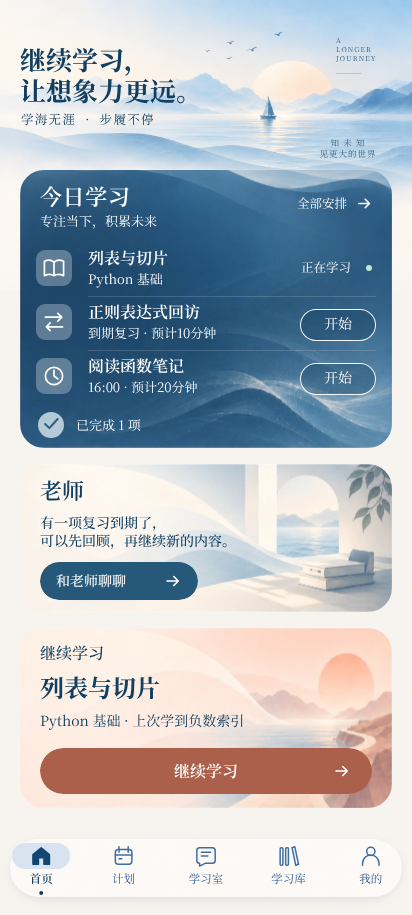
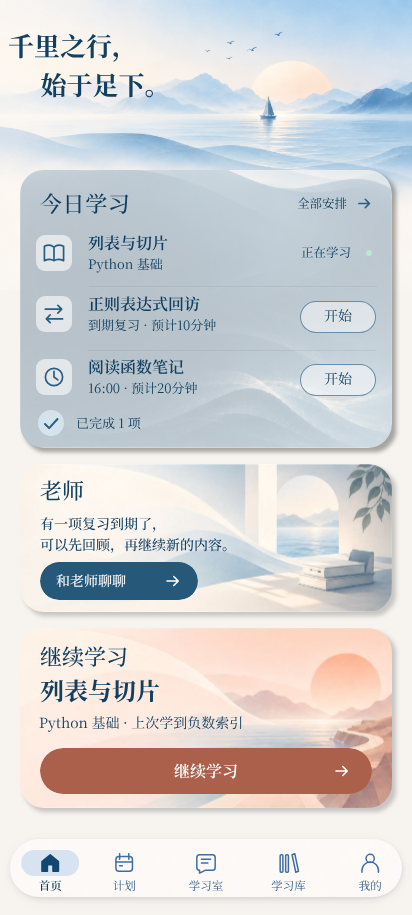
design: record card motion and refine homepage image balance

diff --git a/docs/superpowers/specs/2026-10-10-nautilus-card-focus-motion.md b/docs/superpowers/specs/2026-10-10-nautilus-card-focus-motion.md
@@ -1,0 +1,49 @@
+# 卡片聚焦转场：复用参考
+
+2026-10-10：作者认可修订后的效果，确认保留记录，供后续合适场景参考。当前交付是设计原型，未接入业务应用，也未批准其他页面自动使用。
+
+## 参考产物
+
+- [可重播原型](../prototypes/home-material3/continue-learning-motion.html)
+- [认可的0.8秒GIF](../prototypes/home-material3/continue-learning-800ms-overlap.gif)
+
+原型/GIF保存认可时的画面与时间曲线；后续Penpot静态稿和背景素材可能更新，不把旧演示中的文字、配图和占位学习室当成新页面规范。
+
+## 动作要点
+
+总时长 **800ms**。被点击的卡片是主体，整张首页不跟随上移或拉伸。
+
+1. 卡片向屏幕中心移动，同时缓慢展开；移动前段更明显，展开随接近中心逐渐加快。卡片中心位置和容器尺寸分别控制，不能用上边缘变化冒充位移。
+2. 周围内容及卡片文字、按钮同步模糊；背景图先保持清晰，并从起点持续等比例放大。
+3. 周围内容完成主要模糊后，背景继续放大并逐渐模糊；**目标页面在同一时段逐渐显现、由模糊变清晰**。不能等背景模糊基本结束才切到目标页。
+4. 800ms结束时目标页面完全清晰、可交互；旧页面退出。淡出只是转场的一部分，不能替代目标页的渐清晰过程。
+
+## 当前原型参数
+
+| 进度/时间 | 当前效果 |
+| --- | --- |
+| 0% / 0ms | 上移、容器扩展、背景等比例缩放、周围/前景模糊同时开始 |
+| 25% / 200ms | 原412×915画板中卡片中心从y718移到约y500，高度仅从180增至约231；先建立上移感 |
+| 36% / 288ms | 周围模糊14px，前景文字/按钮主要模糊16px，背景仍清晰 |
+| 40% / 320ms起 | 背景模糊、卡片淡出、目标页显现和清晰共用同一连续进度 |
+| 55% / 440ms | 卡片中心到屏幕中心，继续展开及背景缩放 |
+| 76% / 608ms | 容器覆盖画板，图片继续缩放；背景模糊与目标页清晰仍在同时进行 |
+| 100% / 800ms | 背景图累计缩放1.82倍、模糊28px并退出；目标页模糊为0、透明度为1 |
+
+后半段：`u = clamp((t - 0.4) / 0.6, 0, 1)`，`p = u² × (3 - 2u)`。背景图模糊为`28p`，卡片透明度为`1-p`，目标页透明度为`p`、模糊为`12(1-p)`。背景缩放独立持续，不能被模糊关键帧打断。
+
+这些像素值来自412×915参考画板。复用时应根据真实卡片和视口推导起终点，不能直接固定y718/y457.5；保留800ms及动作关系作为基准，再结合具体场景审阅。
+
+## 图片与交互约束
+
+- 图片必须保持原始宽高比：等比例缩放并裁切，禁止只拉宽或只拉高。容器改变宽高不应拉伸图片；太阳等圆形应始终为圆形。
+- 开始时锁定旧页面操作；目标页在过渡结束前不接收点击，结束后转移焦点。
+- 重播、返回与Esc应取消旧动画，避免旧动画完成回调覆盖新状态。
+- 减少动态效果模式采用现有160ms淡入淡出，省略明显位移、缩放和模糊。
+- GIF前后700/900ms停留仅方便观看，不属于800ms转场，不添加到产品点击流程。
+
+## 后续复用边界与验证
+
+适合候选场景：从明确的内容卡片进入其详情或专注工作区，卡片与目标内容有清晰对应关系。作者只要求留作参考，具体复用位置逐项设计；不自动套用到所有点击、底栏切换或返回动作，不建立通用动效框架。
+
+核对早段同时移动/缩放、中后段背景变模糊与目标页变清晰同步、终点可读可操作、图片不变形及取消/减少动态效果。原型通过这些时序检查不等于业务数据加载、真机性能和可访问性已验收。
